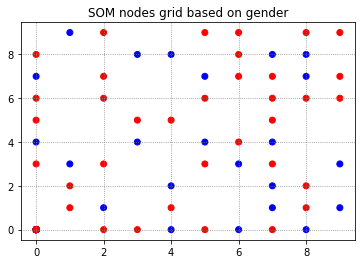
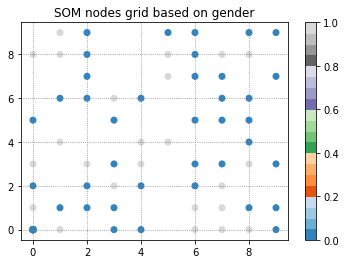
arrange colors plots 4.3

diff --git a/4_3.py b/4_3.py
@@ -34,11 +34,11 @@ def get_extra_data(file_name):
 
     
 
-def get_gender_node_grid(MPs_that_neuron, gender_data):
-    gender_data_node = gender_data[MPs_that_neuron]
+def get_aux_node_grid(MPs_that_neuron, aux_data):
+    aux_data_node = aux_data[MPs_that_neuron]
     # get the most frequent gender in that node
-    most_freq_gender = np.bincount(gender_data_node).argmax()
-    return most_freq_gender
+    most_freq_aux = np.bincount(aux_data_node).argmax()
+    return most_freq_aux
     
     
 def get_district_node_grid():
@@ -52,7 +52,7 @@ def get_party_node_grid():
 
 
 
-def plot_grid__________(votes_best_neuron_arr, n_rows_grid=10, get_gender=False, get_district=False, get_party=False, plot_legend=False):
+def plot_grid_based_extra_data(votes_best_neuron_arr, n_rows_grid=10, get_gender=False, get_district=False, get_party=False, plot_legend=True):
     
     
     gender_data = get_extra_data("data/mpsex.dat")
@@ -86,22 +86,26 @@ def plot_grid__________(votes_best_neuron_arr, n_rows_grid=10, get_gender=False,
             coordinates_scatter[best_neuron_idx,1] = coord_y
         
             if get_gender:
-                most_frequent = get_gender_node_grid(MPs_that_neuron, gender_data)
-            #elif get_district:
-                
-            #elif get_party:
+                most_frequent = get_aux_node_grid(MPs_that_neuron, gender_data)
+                title_text = "gender"
+            elif get_district:
+                most_frequent = get_aux_node_grid(MPs_that_neuron, district_data)
+                title_text = "district"
+            elif get_party:
+                most_frequent = get_aux_node_grid(MPs_that_neuron, party_data)
+                title_text = "party"
+        
         class_list.append(most_frequent)
     
     # plot most_frequent in (coord_x, coord_y)
-    sc = plt.scatter(coordinates_scatter[:,0], coordinates_scatter[:,1], marker = 'o', c=class_list, cmap="bwr_r")
+    sc = plt.scatter(coordinates_scatter[:,0], coordinates_scatter[:,1], marker = 'o', c=class_list, cmap="gist_ncar")
     plt.grid()
     if plot_legend:
         #plot legend
         plt.colorbar(sc)
-    plt.title("SOM nodes grid based on gender")
+    plt.title("SOM nodes grid based on " + title_text)
     plt.show()
 
-    return 0 
 
 
 
@@ -121,7 +125,9 @@ if __name__ == "__main__":
         nearest_idx = SOM.get_best_matching_neuron(weights, votes_data[sample_idx, :])
         votes_best_neuron_arr[sample_idx] = nearest_idx
     
-    
+    plot_grid_based_extra_data(votes_best_neuron_arr, get_gender=True)
+    plot_grid_based_extra_data(votes_best_neuron_arr, get_district=True)
+    plot_grid_based_extra_data(votes_best_neuron_arr, get_party=True)
 
 
 
